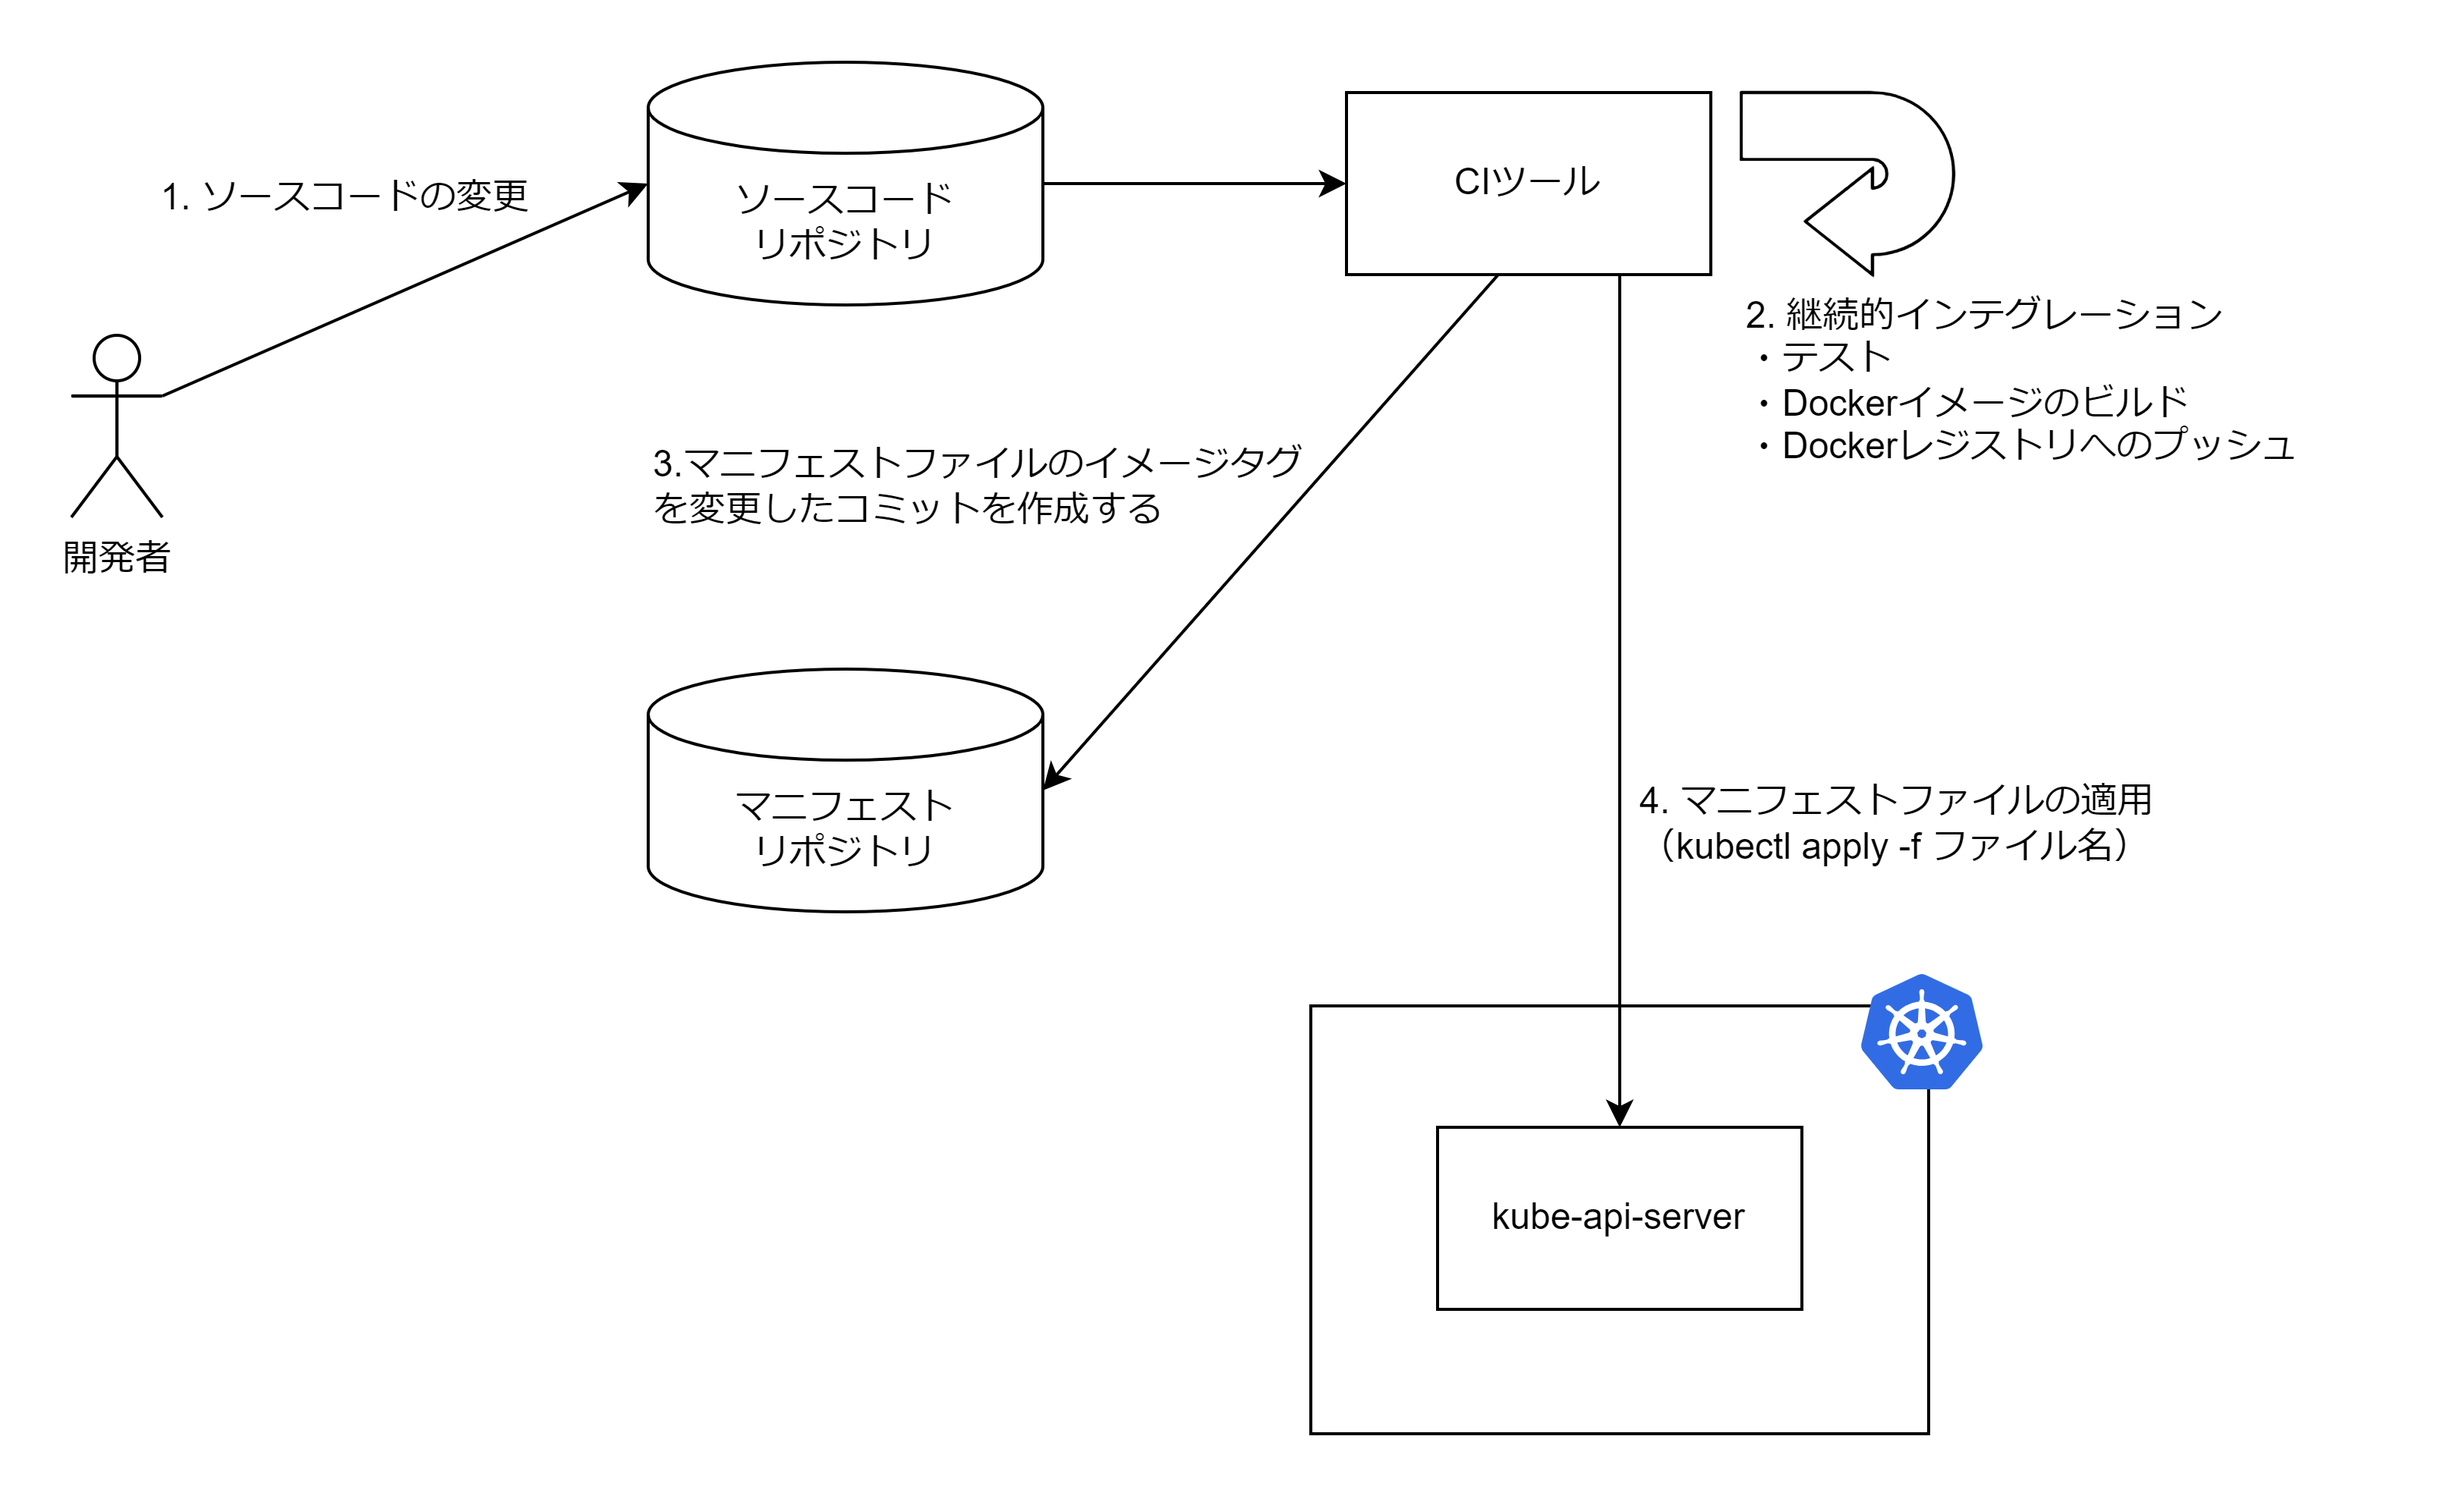
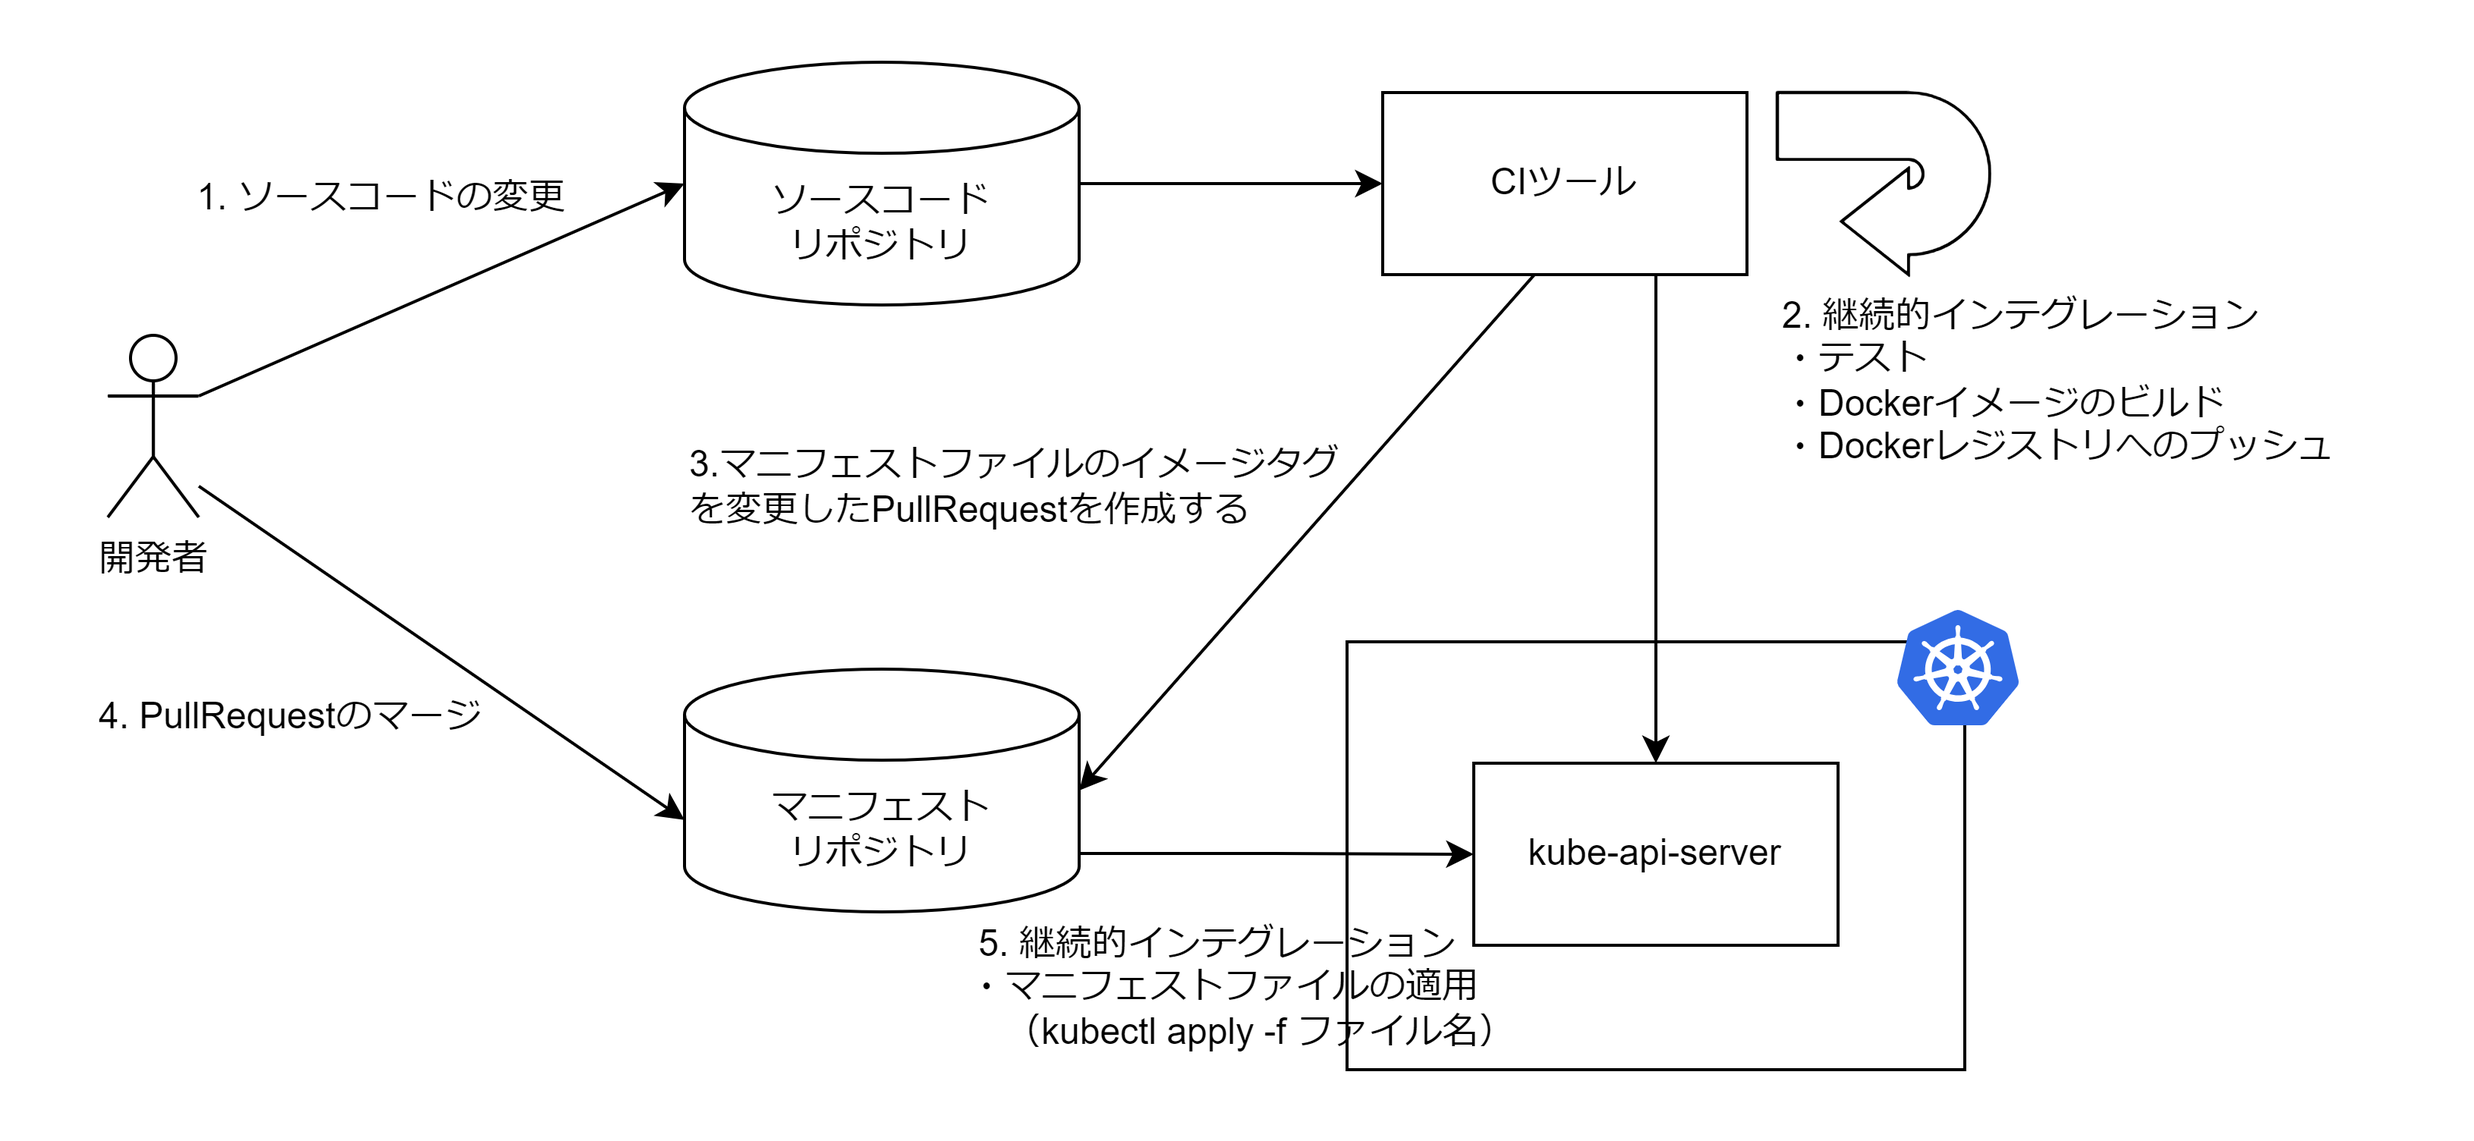
Kubernetes-CIOpsの修正

diff --git a/Kubernetes/12.CICD/CICD.md b/Kubernetes/12.CICD/CICD.md
@@ -18,9 +18,10 @@ Kubernetes の CI/CD には 2 つの方法論がある。
 ## CIOps
 
 1. 開発者がリポジトリに変更を main ブランチにマージする
-2. GitHubActions がテスト・Docker イメージのビルド・Docker レジストリへのイメージの Push を行う
-3. GithubActions がマニフェストファイルのイメージタグを変更しコミットする
-4. GithubActions がマニフェストファイルを Kubernetes に適用する
+2. ソースリポジトリの GitHubActions がテスト・Docker イメージのビルド・Docker レジストリへのイメージの Push を行う
+3. ソースリポジトリの GithubActions がマニフェストファイルのイメージタグを変更した PullRequest をマニフェストリポジトリに対して作成する
+4. 開発者がマニフェストリポジトリへの PullRequest をマージする
+5. マニフェストリポジトリの GithubActions がマニフェストファイルを Kubernetes に適用する
 
 ![CIOps](../image/CIOps.png)
 
